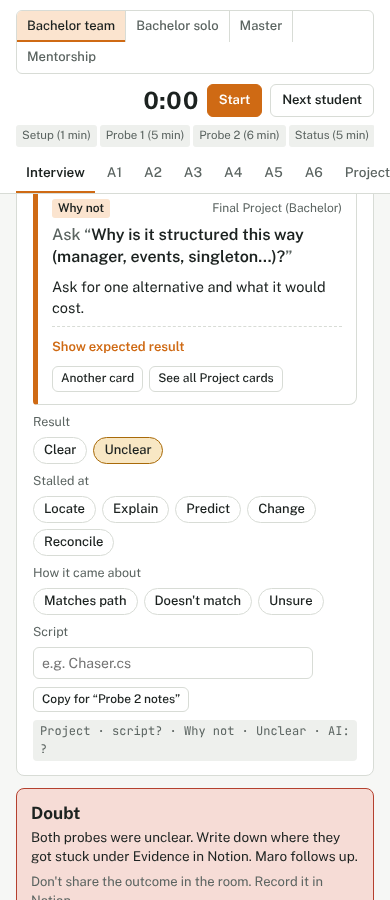
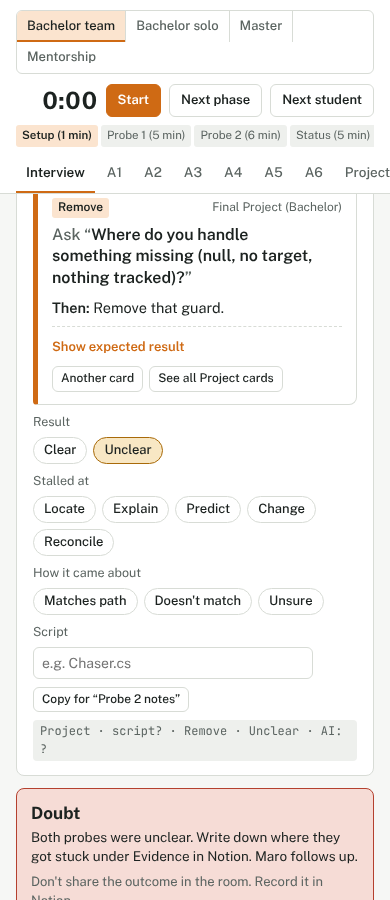
Phases are moved by the TA; timer only shows time left or time to move on
Claude-Session: https://claude.ai/code/session_012pZ8E2KigwqxqxQJHujcYw

diff --git a/index.html b/index.html
@@ -48,20 +48,26 @@ code{font-family:var(--mono);font-size:.86em;background:var(--sunk);padding:.05e
 .modes button{border:0;background:transparent;padding:6px 10px;font-size:13px;font-weight:500;color:var(--muted);border-right:1px solid var(--line)}
 .modes button:last-child{border-right:0}
 .modes button[aria-pressed="true"]{color:var(--fg);background:var(--accent-t);box-shadow:inset 0 -2px 0 var(--accent)}
-.clock{margin-left:auto;display:flex;align-items:center;gap:8px}
+.clock{margin-left:auto;display:flex;align-items:center;gap:8px;flex-wrap:wrap;justify-content:flex-end}
 .time{font-size:28px;font-weight:700;font-variant-numeric:tabular-nums;letter-spacing:-.01em;line-height:1;min-width:4.6ch;text-align:right}
 .time.warn{color:var(--unclear)} .time.over{color:var(--doubt)}
-.btn{border:1px solid var(--line);background:var(--surface);border-radius:6px;padding:6px 11px;font-size:13px;font-weight:600}
+.phint{font-size:13px;color:var(--muted);font-variant-numeric:tabular-nums;white-space:nowrap}
+.phint.move{color:var(--doubt);font-weight:600}
+.btn{white-space:nowrap;border:1px solid var(--line);background:var(--surface);border-radius:6px;padding:6px 11px;font-size:13px;font-weight:600}
 .btn:hover{background:var(--sunk)}
 .btn.primary{background:var(--accent);border-color:var(--accent);color:#fff}
 .btn.primary:hover{filter:brightness(1.05);background:var(--accent)}
 .btn.armed{background:var(--doubt);border-color:var(--doubt);color:#fff}
 .btn.small{padding:3px 8px;font-size:12px;font-weight:500}
 .phases{display:flex;gap:3px;padding-bottom:8px;overflow-x:auto;scrollbar-width:none}
-.ph{flex:var(--w) 1 auto;min-width:max-content;height:22px;border-radius:3px;background:var(--sunk);position:relative;overflow:hidden;font-size:11.5px;color:var(--muted);display:flex;align-items:center;padding:0 6px;white-space:nowrap}
-.ph i{position:absolute;inset:0 auto 0 0;width:var(--p,0%);background:var(--accent-t)}
+.ph{border:0;font:inherit;cursor:pointer;text-align:left;flex:var(--w) 1 auto;min-width:max-content;height:22px;border-radius:3px;background:var(--sunk);position:relative;overflow:hidden;font-size:11.5px;color:var(--muted);display:flex;align-items:center;padding:0 6px;white-space:nowrap}
+.ph i{position:absolute;left:0;bottom:0;height:3px;width:var(--p,0%);background:var(--accent)}
 .ph span{position:relative}
-.ph.now{color:var(--fg);font-weight:600;box-shadow:inset 0 0 0 1.5px var(--accent)}
+.ph.now{color:var(--fg);font-weight:600;background:var(--accent-t)}
+.ph.done{color:var(--fg)}
+.ph.over i{background:var(--doubt)}
+.ph:hover{filter:brightness(.97)}
+.btn:disabled{opacity:.45;cursor:default}
 .tabs{display:flex;gap:2px;overflow-x:auto;scrollbar-width:none;margin:0 -16px;padding:0 16px}
 .tabs::-webkit-scrollbar{display:none}
 .tabs button{border:0;background:transparent;padding:8px 10px 9px;font-size:13.5px;font-weight:500;color:var(--muted);white-space:nowrap;border-bottom:2px solid transparent}
@@ -146,8 +152,10 @@ input[type=text]{font:inherit;font-size:14px;color:var(--fg);background:var(--su
     <div class="bar-row">
       <div class="modes" role="group" aria-label="Student type" id="modes"></div>
       <div class="clock">
+        <span class="phint" id="phint"></span>
         <span class="time" id="time" aria-live="off">0:00</span>
         <button class="btn primary" id="startBtn" data-act="timer">Start</button>
+        <button class="btn" id="phaseBtn" data-act="nextphase">Next phase</button>
         <button class="btn" id="nextBtn" data-act="next">Next student</button>
       </div>
     </div>
@@ -193,7 +201,7 @@ let S;
 function reset(keepMode){
   const mode = keepMode && S ? S.mode : (store.get("crg-mode","bt"));
   S = { mode, tab:"flow", aiPath:null, sugg:null,
-        timer:{running:false, start:0, acc:0},
+        timer:{running:false, start:0, acc:0}, phase:0, phaseAt:0,
         probes:[blankProbe(), blankProbe(), blankProbe()],
         follow:null, armedNext:false };
 }
@@ -275,23 +283,31 @@ function renderChrome(){
 }
 function renderClock(){
   const ph = phasesFor(S.mode), total = ph[ph.length-1].e*60000, el = elapsed();
+  if(S.phase >= ph.length) S.phase = ph.length-1;
   const t = document.getElementById("time");
   t.textContent = fmt(el);
   t.classList.toggle("over", el > total);
   t.classList.toggle("warn", el <= total && el > total-60000);
   document.getElementById("startBtn").textContent = S.timer.running ? "Pause" : (el>0 ? "Resume" : "Start");
-  let prev = 0, nowIdx = -1;
+  const nb = document.getElementById("phaseBtn");
+  nb.disabled = S.phase >= ph.length-1; nb.textContent = "Next phase";
+  let prev = 0;
+  const inPhase = el - S.phaseAt;
   const html = ph.map((p,i) => {
-    const s = prev*60000, e = p.e*60000, w = p.e-prev;
-    const pct = el<=s ? 0 : el>=e ? 100 : (el-s)/(e-s)*100;
-    const now = el>0 && el>=s && el<e; if(now) nowIdx = i;
-    prev = p.e;
-    return `<div class="ph${now?" now":""}" style="--w:${w};--p:${pct}%"><i></i><span>${p.n} (${w} min)</span></div>`;
+    const len = (p.e-prev)*60000, w = p.e-prev; prev = p.e;
+    const now = i===S.phase, done = i<S.phase;
+    const pct = done ? 100 : now ? Math.min(100, inPhase/len*100) : 0;
+    const over = now && inPhase > len;
+    return `<button class="ph${now?" now":""}${done?" done":""}${over?" over":""}" data-act="phase" data-v="${i}" style="--w:${w};--p:${pct}%" aria-pressed="${now}"><i></i><span>${p.n} (${w} min)</span></button>`;
   }).join("");
   document.getElementById("phases").innerHTML = html;
-  // highlight the matching step in the interview tab
+  const cur = ph[S.phase], curLen = (cur.e - (S.phase ? ph[S.phase-1].e : 0))*60000, left = curLen - inPhase;
+  const hint = document.getElementById("phint");
+  if(el === 0){ hint.textContent = ""; hint.className = "phint"; }
+  else if(left > 0){ hint.textContent = cur.n + ": " + fmt(left+999) + " left"; hint.className = "phint"; }
+  else { hint.textContent = cur.n + ": time to move on"; hint.className = "phint move"; }
   document.querySelectorAll(".step[data-phase]").forEach(n => {
-    const on = Number(n.dataset.phase) === nowIdx;
+    const on = Number(n.dataset.phase) === S.phase && el > 0;
     n.classList.toggle("now", on);
     const tag = n.querySelector(".nowtag"); if(tag) tag.hidden = !on;
   });
@@ -518,6 +534,10 @@ document.addEventListener("click", e => {
       S.probes.forEach(p => { if(p.card && !cardsFor(p.deck).some(c=>c.id===p.card)) Object.assign(p, blankProbe()); });
       break;
     case "tab": S.tab = v; window.scrollTo(0,0); break;
+    case "nextphase": if(!S.timer.running){ S.timer.start = Date.now(); S.timer.running = true; }
+      S.phase = Math.min(S.phase+1, phasesFor(S.mode).length-1); S.phaseAt = elapsed(); break;
+    case "phase": if(!S.timer.running && elapsed()===0){ S.timer.start = Date.now(); S.timer.running = true; }
+      S.phase = Number(v); S.phaseAt = elapsed(); break;
     case "timer":
       if(S.timer.running){ S.timer.acc += Date.now()-S.timer.start; S.timer.running = false; }
       else { S.timer.start = Date.now(); S.timer.running = true; }
